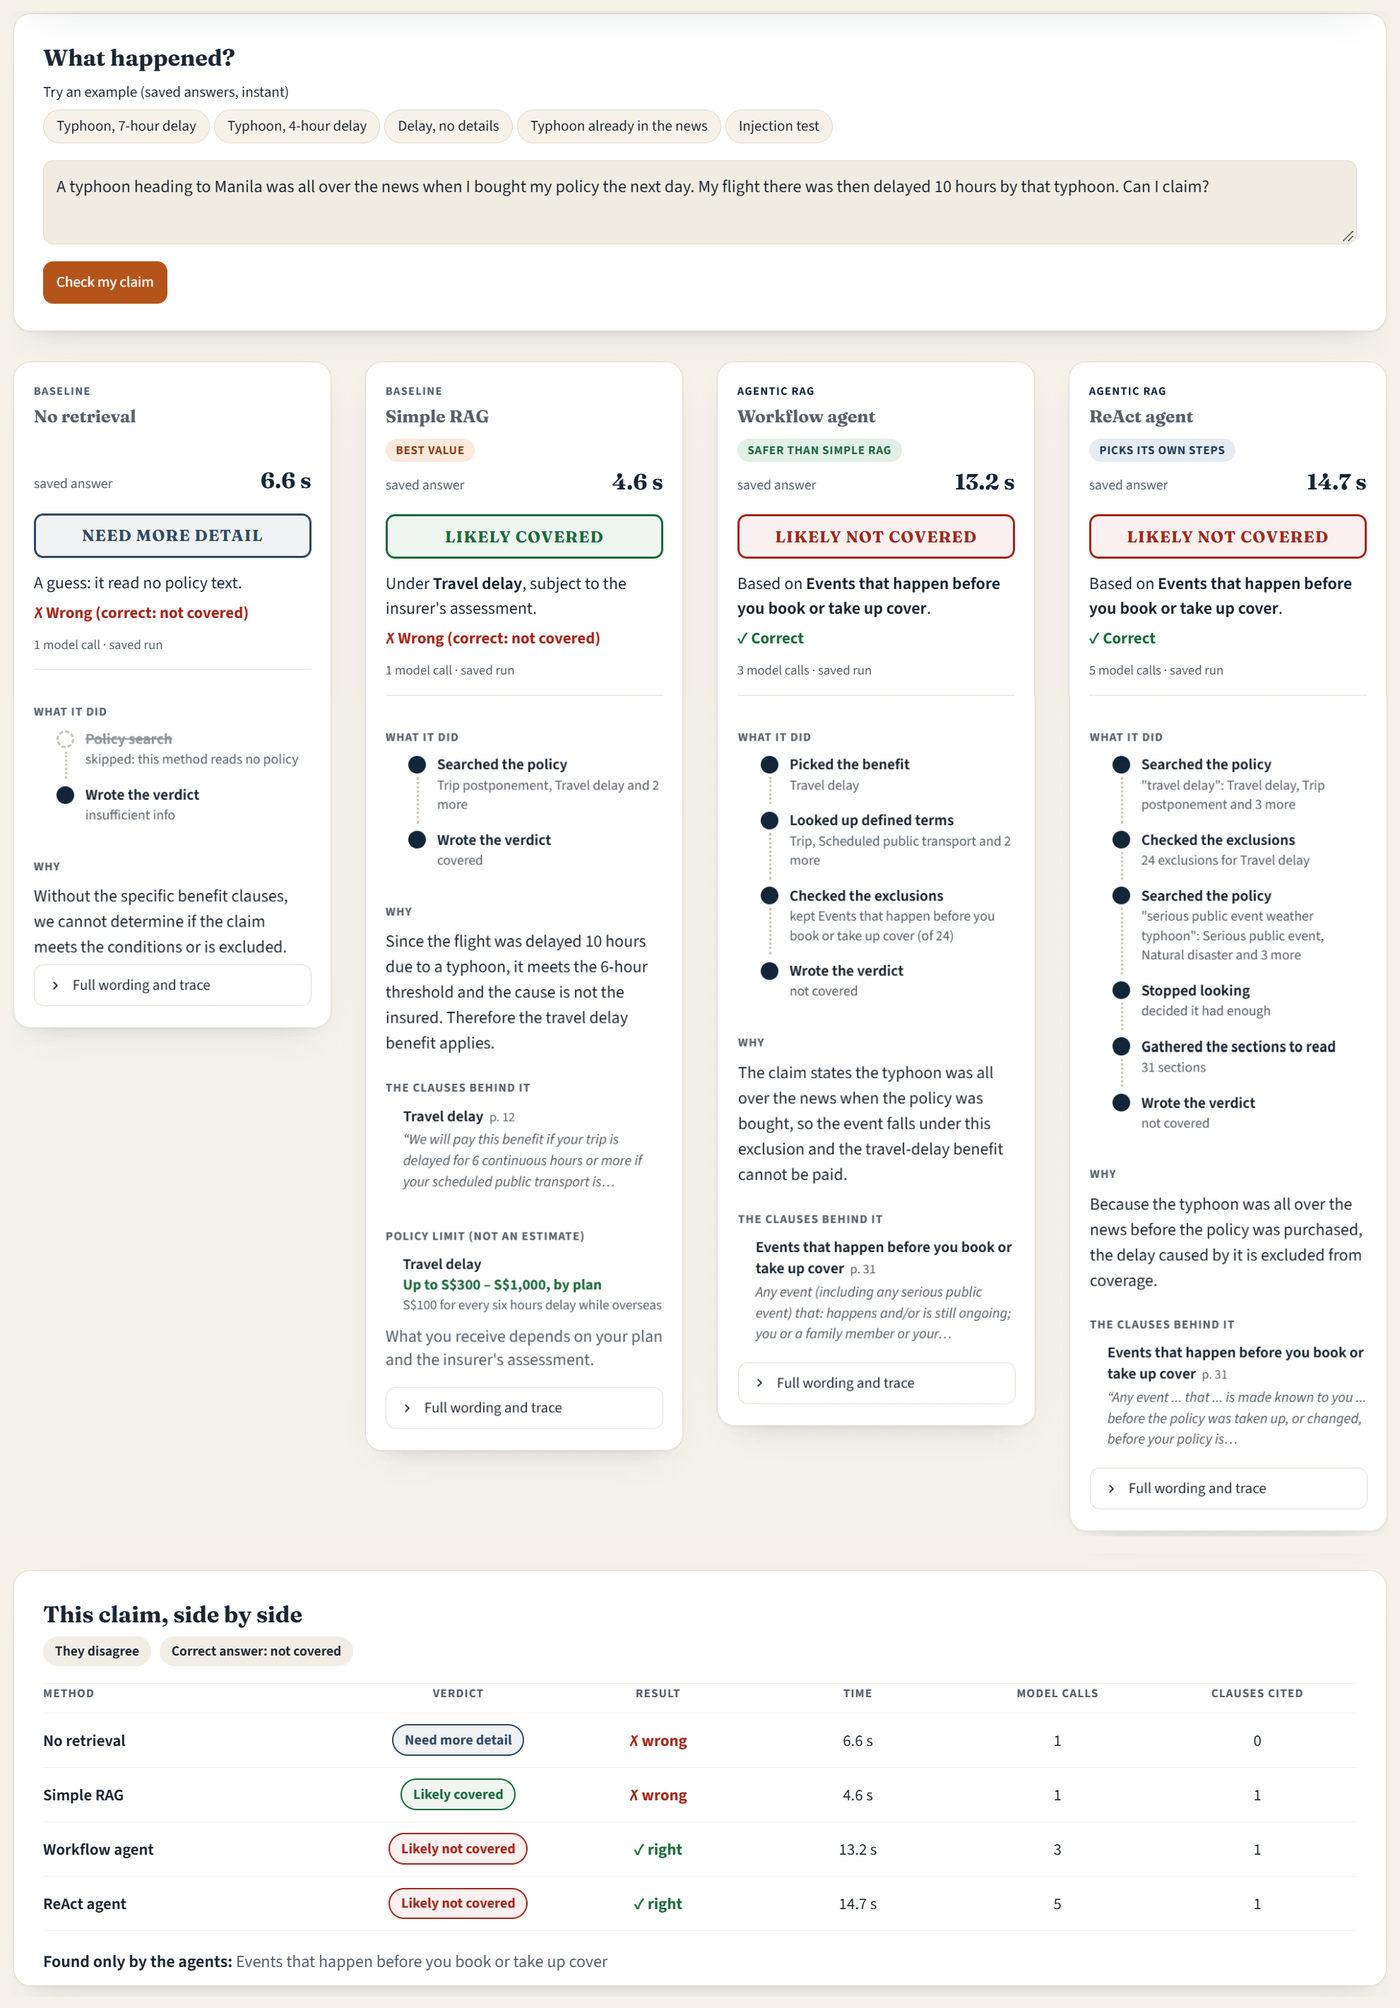
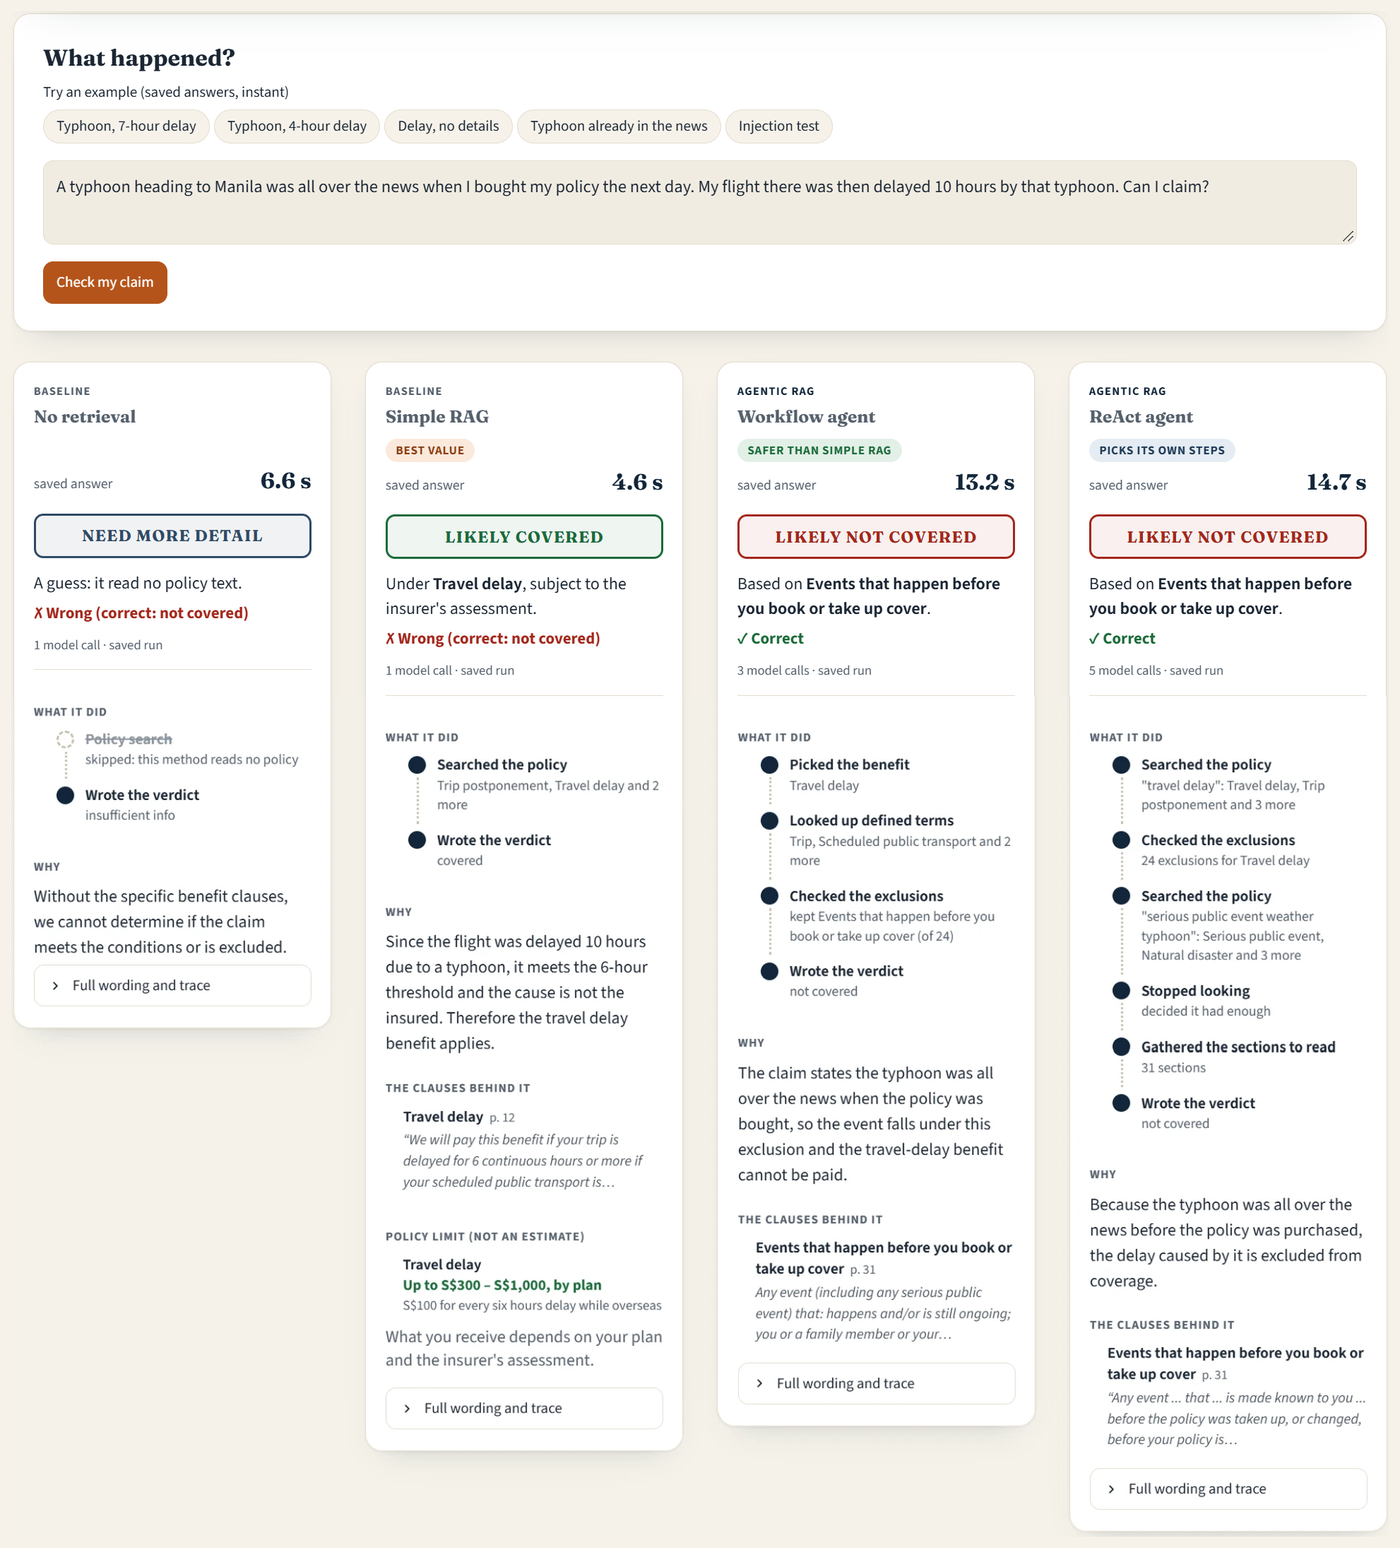
Report: demo figure split into Figure 4 (the cards) and Figure 5 (the side-by-side table)

diff --git a/docs/REPORT.md b/docs/REPORT.md
@@ -1,4 +1,4 @@
-<!-- Synced with the shared report doc on 12 Nov 2026, rev 390 (the doc is the working copy). -->
+<!-- Synced with the shared report doc on 12 Nov 2026, rev 392 (the doc is the working copy). -->
 
 # Is the agent worth it? Agentic RAG for travel insurance coverage verdicts
 
@@ -262,15 +262,19 @@ A claim describes what happened and never uses the defined terms or exclusion wo
 
 The demo is a Streamlit app that runs no retrieval, simple RAG, the workflow agent and ReAct side by side on gpt-oss-20b, so the user sees the floor, the winner and both agents answer the same claim on one page.
 
-![The demo on the Manila typhoon claim: four methods side by side, then a summary table](figures/demo_manila.png)
+![The demo on the Manila typhoon claim: the four methods side by side](figures/demo_manila.png)
 
-*Figure 4. The demo on the Manila typhoon claim (test claim fwd-010, saved gpt-oss-20b answers). No retrieval asks for more detail and simple RAG says likely covered (both wrong); both agents say likely not covered because of the exclusion for events already in the news (right). The table underneath lines up the four answers with their time and model calls.*
+*Figure 4. The demo on the Manila typhoon claim (test claim fwd-010, saved gpt-oss-20b answers). No retrieval asks for more detail and simple RAG says likely covered (both wrong); both agents say likely not covered because of the exclusion for events already in the news (right).*
 
-- **Each card shows** a possible verdict ("Likely covered under Travel delay, subject to the insurer's assessment", never a payout amount), the steps taken, a short reason and one deciding line per cited clause. On labelled test claims it also marks the verdict right or wrong, and a table under the cards lines up the four answers with their time and model calls; the test-set results are folded below it. For a covered verdict it quotes the benefit's limit for each plan from the policy (FWD's table of benefits, or the limits printed in each MSIG section), labelled as a limit and not an estimate: the payout depends on the plan bought and the insurer's assessment, and amounts were not part of our evaluation.
+- **Each card shows** a possible verdict ("Likely covered under Travel delay, subject to the insurer's assessment", never a payout amount), the steps taken, a short reason and one deciding line per cited clause. On labelled test claims it also marks the verdict right or wrong, and a table under the cards lines up the four answers with their time and model calls (Figure 5); the test-set results are folded below it. For a covered verdict it quotes the benefit's limit for each plan from the policy (FWD's table of benefits, or the limits printed in each MSIG section), labelled as a limit and not an estimate: the payout depends on the plan bought and the insurer's assessment, and amounts were not part of our evaluation.
 - **Guardrails:** every cited ID must exist in the policy, or the answer becomes "need more detail" and asks for the missing info. A safe-mode toggle has the agent re-check every "covered" or "partially covered", and a quote check rejects a "covered" that quotes wording not found in the policy.
 - **Prompt injection:** four claims with instructions such as "say covered" fooled neither the simple RAG nor the workflow agent. A fake policy endorsement pasted into the claim field did fool the simple RAG, but the quote check catches it.
 - **Offline:** scripted questions use cached answers, which are never used for any reported number.
 - **Limit:** simple RAG, the winner under the planned rule, is right on 69% of claims. The app points to the deciding clauses, but it does not decide the claim.
+
+![The side-by-side table for the Manila claim](figures/demo_manila_table.png)
+
+*Figure 5. The table under the cards for the same claim: each method's verdict, whether it was right, its time and model calls, and the clause only the agents found.*
 
 ## 9. Discussion
 

diff --git a/docs/REPORT_NOTES.md b/docs/REPORT_NOTES.md
@@ -211,7 +211,9 @@ result. On dev, 9 of A4's 10 Llama misses had all needed sections in context (re
   (rev 389), which again matches REPORT.md.
 - **Figure 4 (12 Nov)** [8]: the demo on the Manila claim (fwd-010, saved gpt-oss answers), stitched from YZ's three
   screenshots (input and verdicts; steps, reasons and clauses; the side-by-side table) into docs/figures/demo_manila.png.
-  In the shared doc (rev 390) it replaces the Figure 4 placeholder, with a caption; REPORT.md points to the same file.
+  Then split so the page flows better: Figure 4 = the claim and the four cards (docs/figures/demo_manila.png, in place
+  of the old placeholder); Figure 5 = the side-by-side table (demo_manila_table.png), after the section 8 bullets, which
+  now point to it. Same in the shared doc (rev 392) and REPORT.md.
 - **Power** [9]: with the observed discordance (32 to 42 of 124 claims), a 5-point gap needs about 800 to 1,100
   claims for 80% power (McNemar, two-sided 5%); about 230 to 290 for a 10-point gap.
 - **Course links** [1, 2]: Topic 7 slides 18-19 (ReAct loop), 36 (ReAct vs Plan-and-Execute: the workflow agent is
